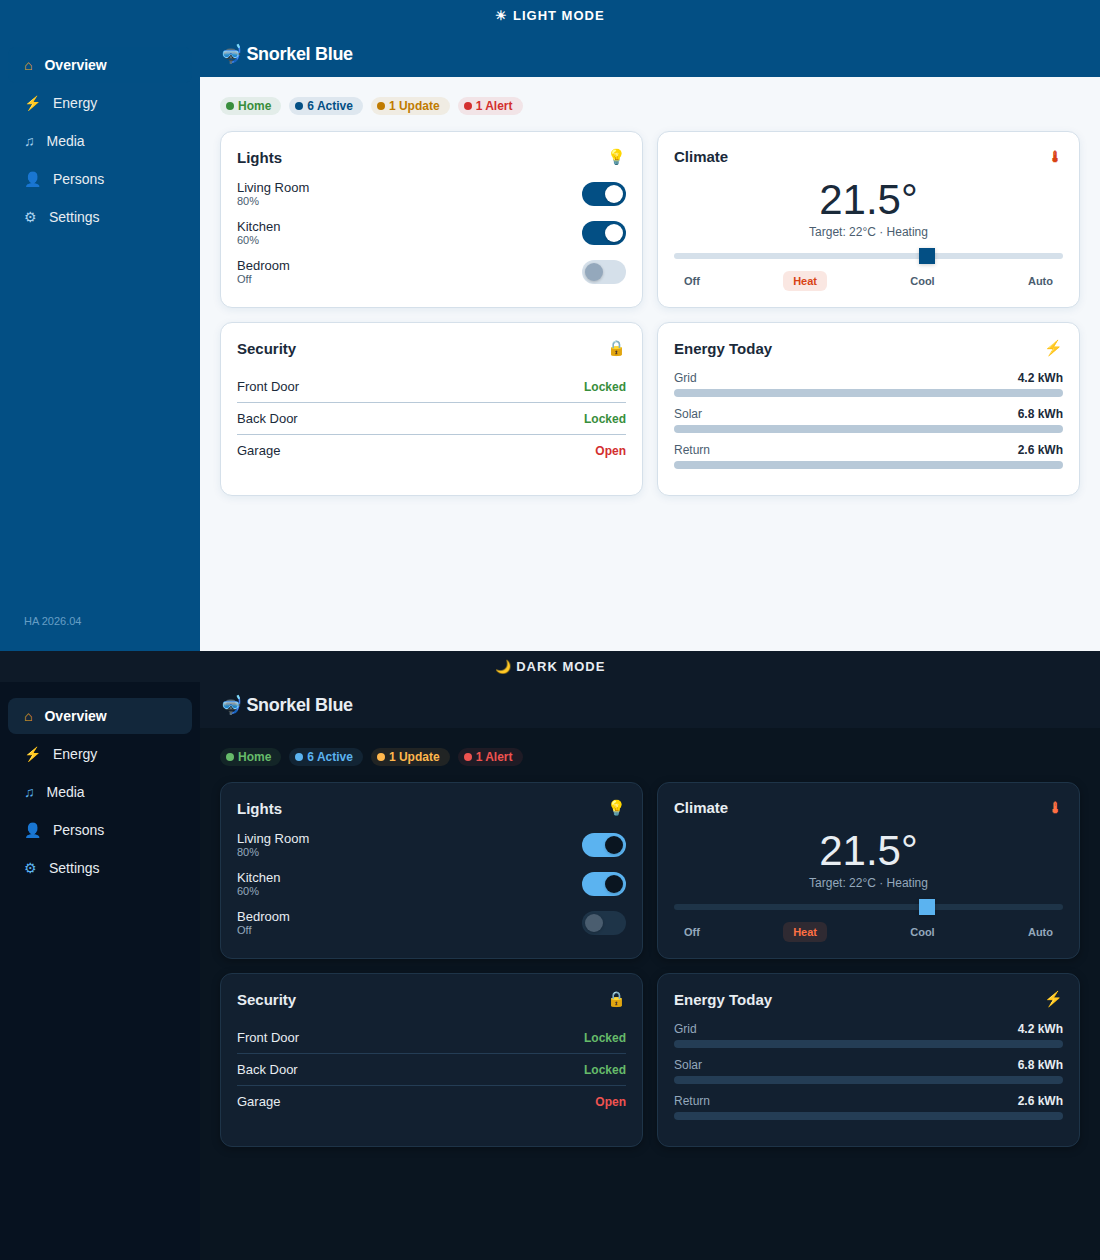
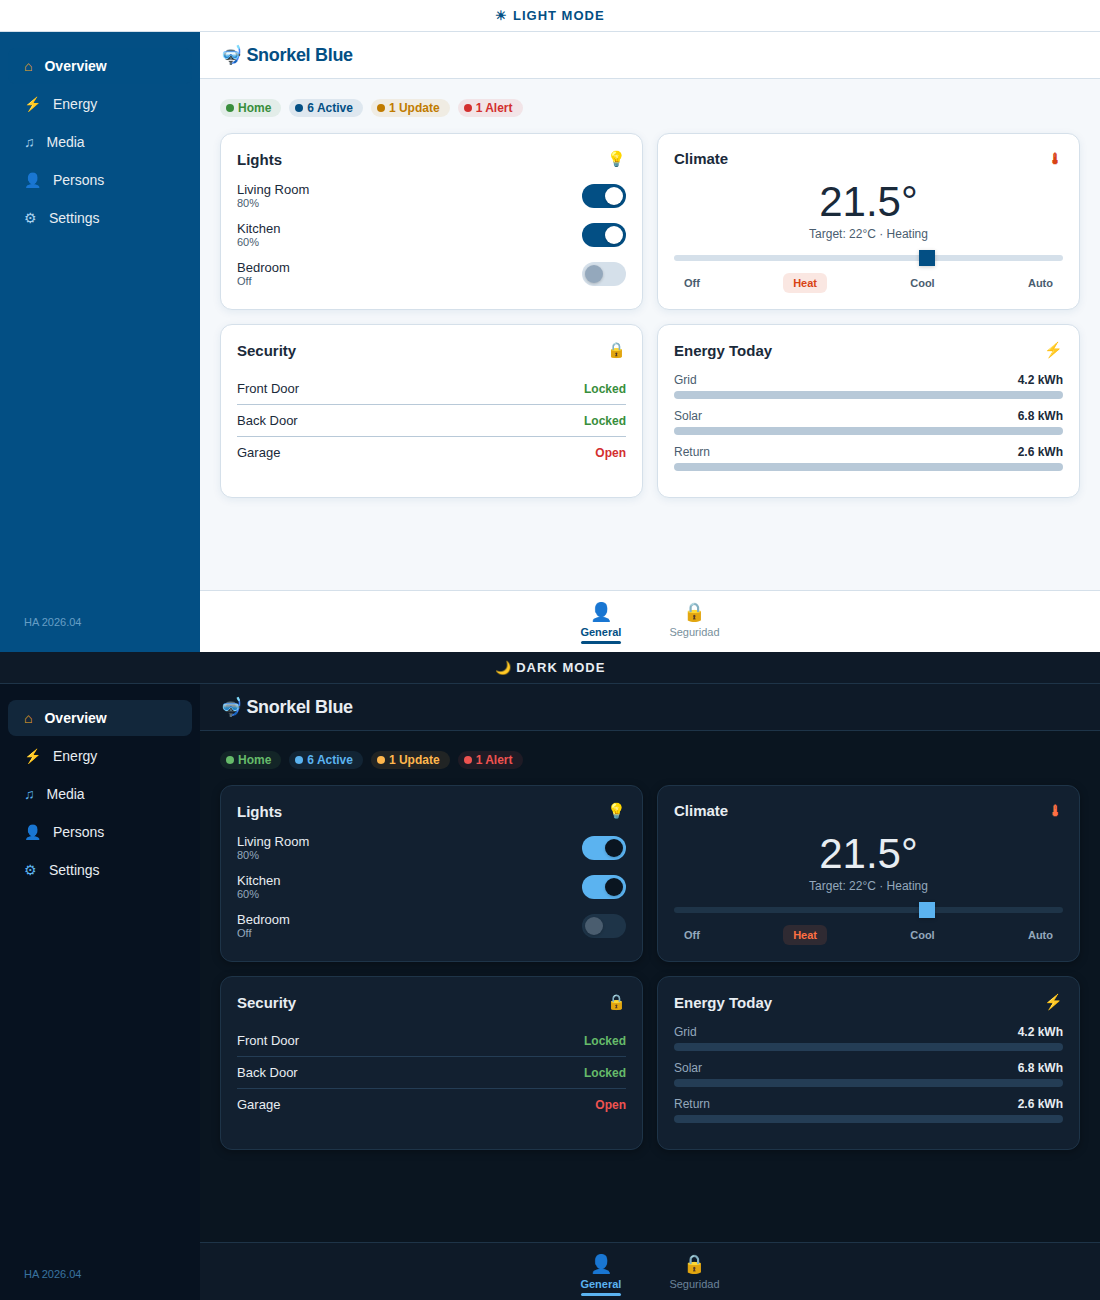
docs: update README and preview screenshot
- Screenshot now shows white header in light mode and bottom nav tabs
- README updated with 136+ variables, MD3 tokens, Shoelace compatibility
- Added Header and Sidebar rows to color palette table

diff --git a/README.md b/README.md
@@ -7,9 +7,10 @@ A carefully crafted theme for Home Assistant based on **Pantone 19-4049 TCX "Sno
 ## Features
 
 - **Dual mode**: Light and dark variants, switchable from user profile
-- **WCAG AA+ compliant**: All 76 text/icon/UI contrast pairs validated ≥ 3:1 (UI) / ≥ 4.5:1 (text)
-- **Complete coverage**: 116 variables per mode — cards, sidebar, header, switches, sliders, inputs, dialogs, code editor, energy dashboard, and all semantic entity states
-- **2026.04 ready**: Includes the new `ha-color-form-background` semantic variables and `ha-view-sections-row-gap`
+- **WCAG AA+ compliant**: All text/icon/UI contrast pairs validated ≥ 3:1 (UI) / ≥ 4.5:1 (text)
+- **Complete coverage**: 136+ variables per mode — cards, sidebar, header, switches, sliders, inputs, dialogs, code editor, energy dashboard, and all semantic entity states
+- **2026.04 ready**: Includes the new `ha-color-form-background` semantic variables, `ha-view-sections-row-gap`, and Material Design 3 system color tokens
+- **Shoelace compatible**: Includes `sl-color-primary-600`, `ha-tab-active-text-color`, and related variables for proper tab rendering (2025.5+)
 - **No dependencies**: Works standalone, no card-mod required
 - **Energy dashboard colors**: Tuned for readability on both modes
 
@@ -22,6 +23,8 @@ A carefully crafted theme for Home Assistant based on **Pantone 19-4049 TCX "Sno
 | Background | `#F5F8FB` Ice | `#0A1520` Deep Sea |
 | Card | `#FFFFFF` White | `#122030` Midnight |
 | Text | `#1A2A3A` Ink | `#E8EDF2` Mist |
+| Header | `#FFFFFF` White | `#0E1A28` Deep Navy |
+| Sidebar | `#034F84` Snorkel Blue | `#071220` Abyss |
 
 ## Installation
 
@@ -47,6 +50,7 @@ A carefully crafted theme for Home Assistant based on **Pantone 19-4049 TCX "Sno
 ## Compatibility
 
 - **Home Assistant**: 2026.04+
+- **Frontend**: Shoelace components (2025.5+) and Material Design 3 tokens
 - **Companion Apps**: iOS and Android (auto-syncs theme)
 
 ## License
